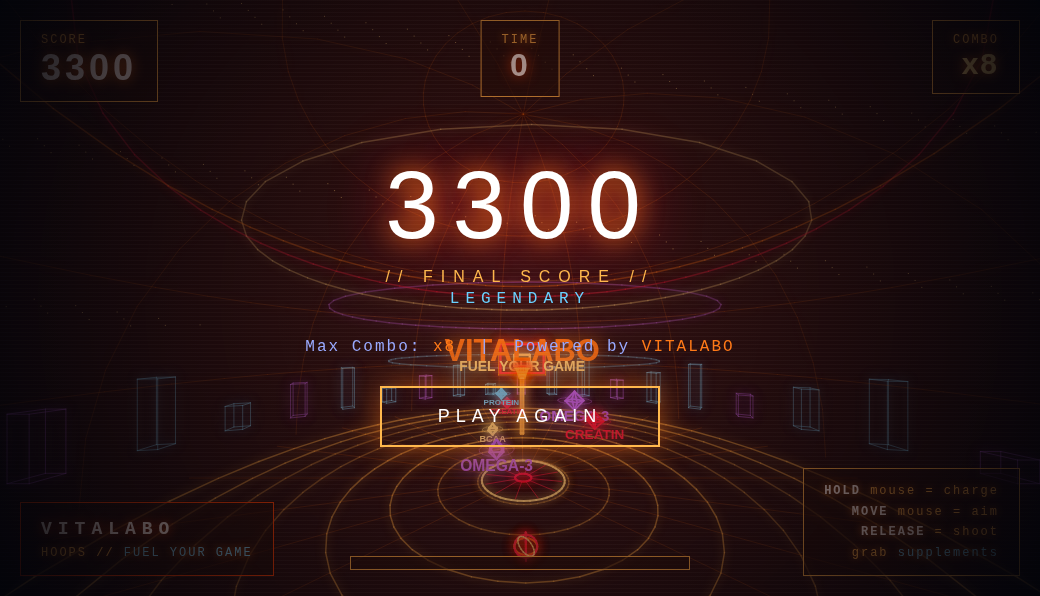
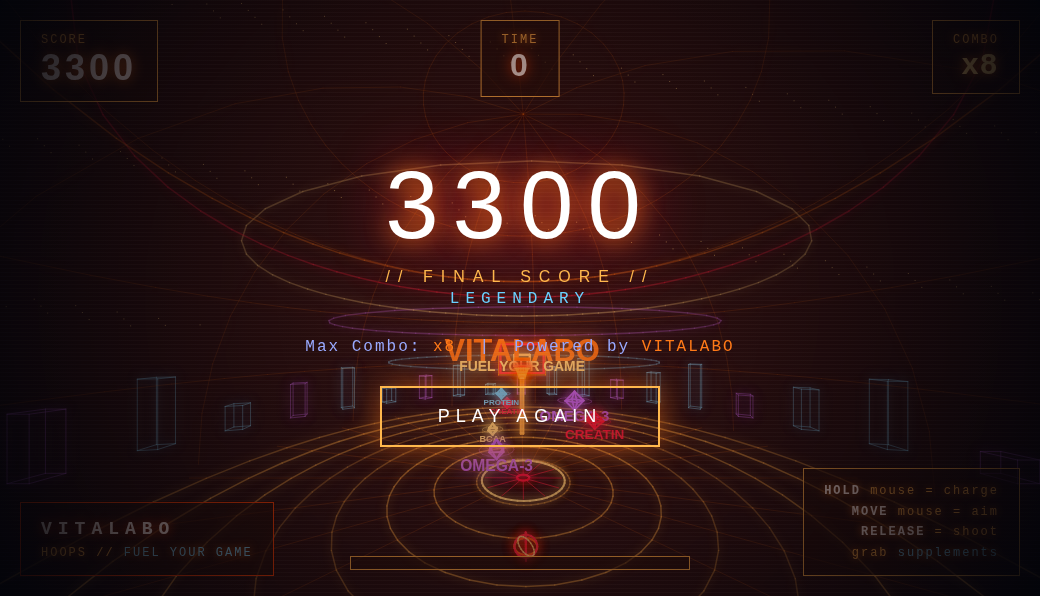
chore: noindex all routes (no search indexing)

diff --git a/index.html b/index.html
@@ -2,6 +2,7 @@
 <html lang="de">
 <head>
 <meta charset="UTF-8">
+<meta name="robots" content="noindex, nofollow">
 <title>VITALABO HOOPS</title>
 <style>
   *{margin:0;padding:0;box-sizing:border-box}